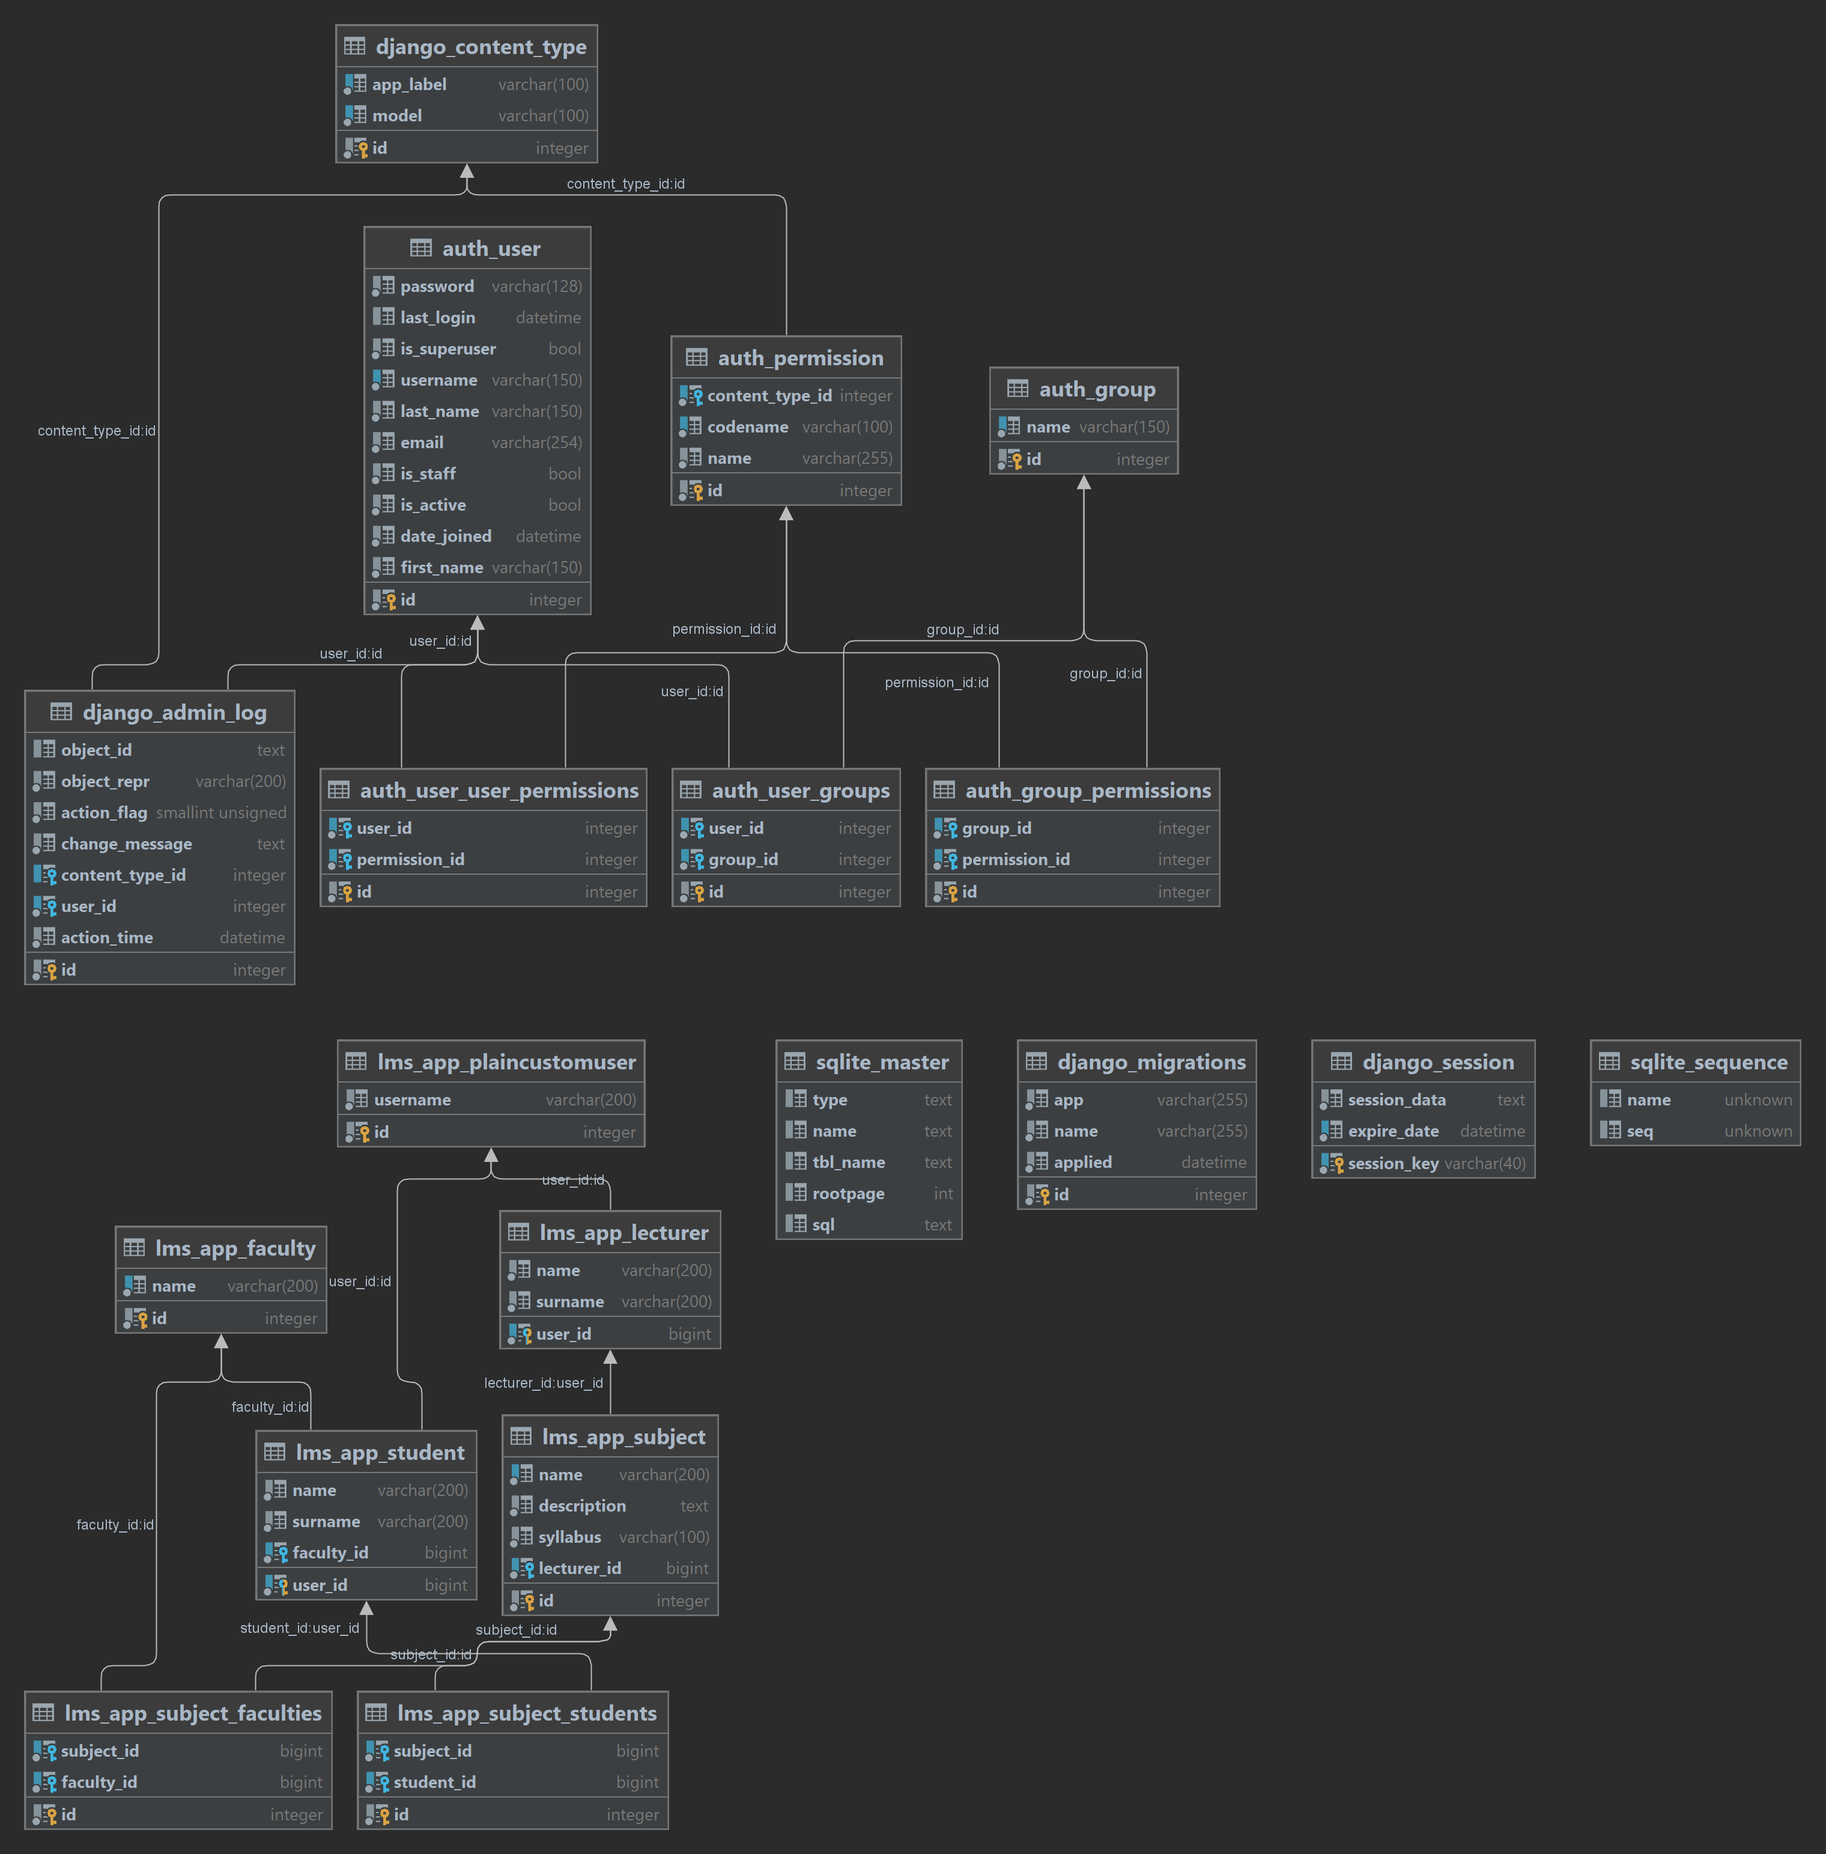
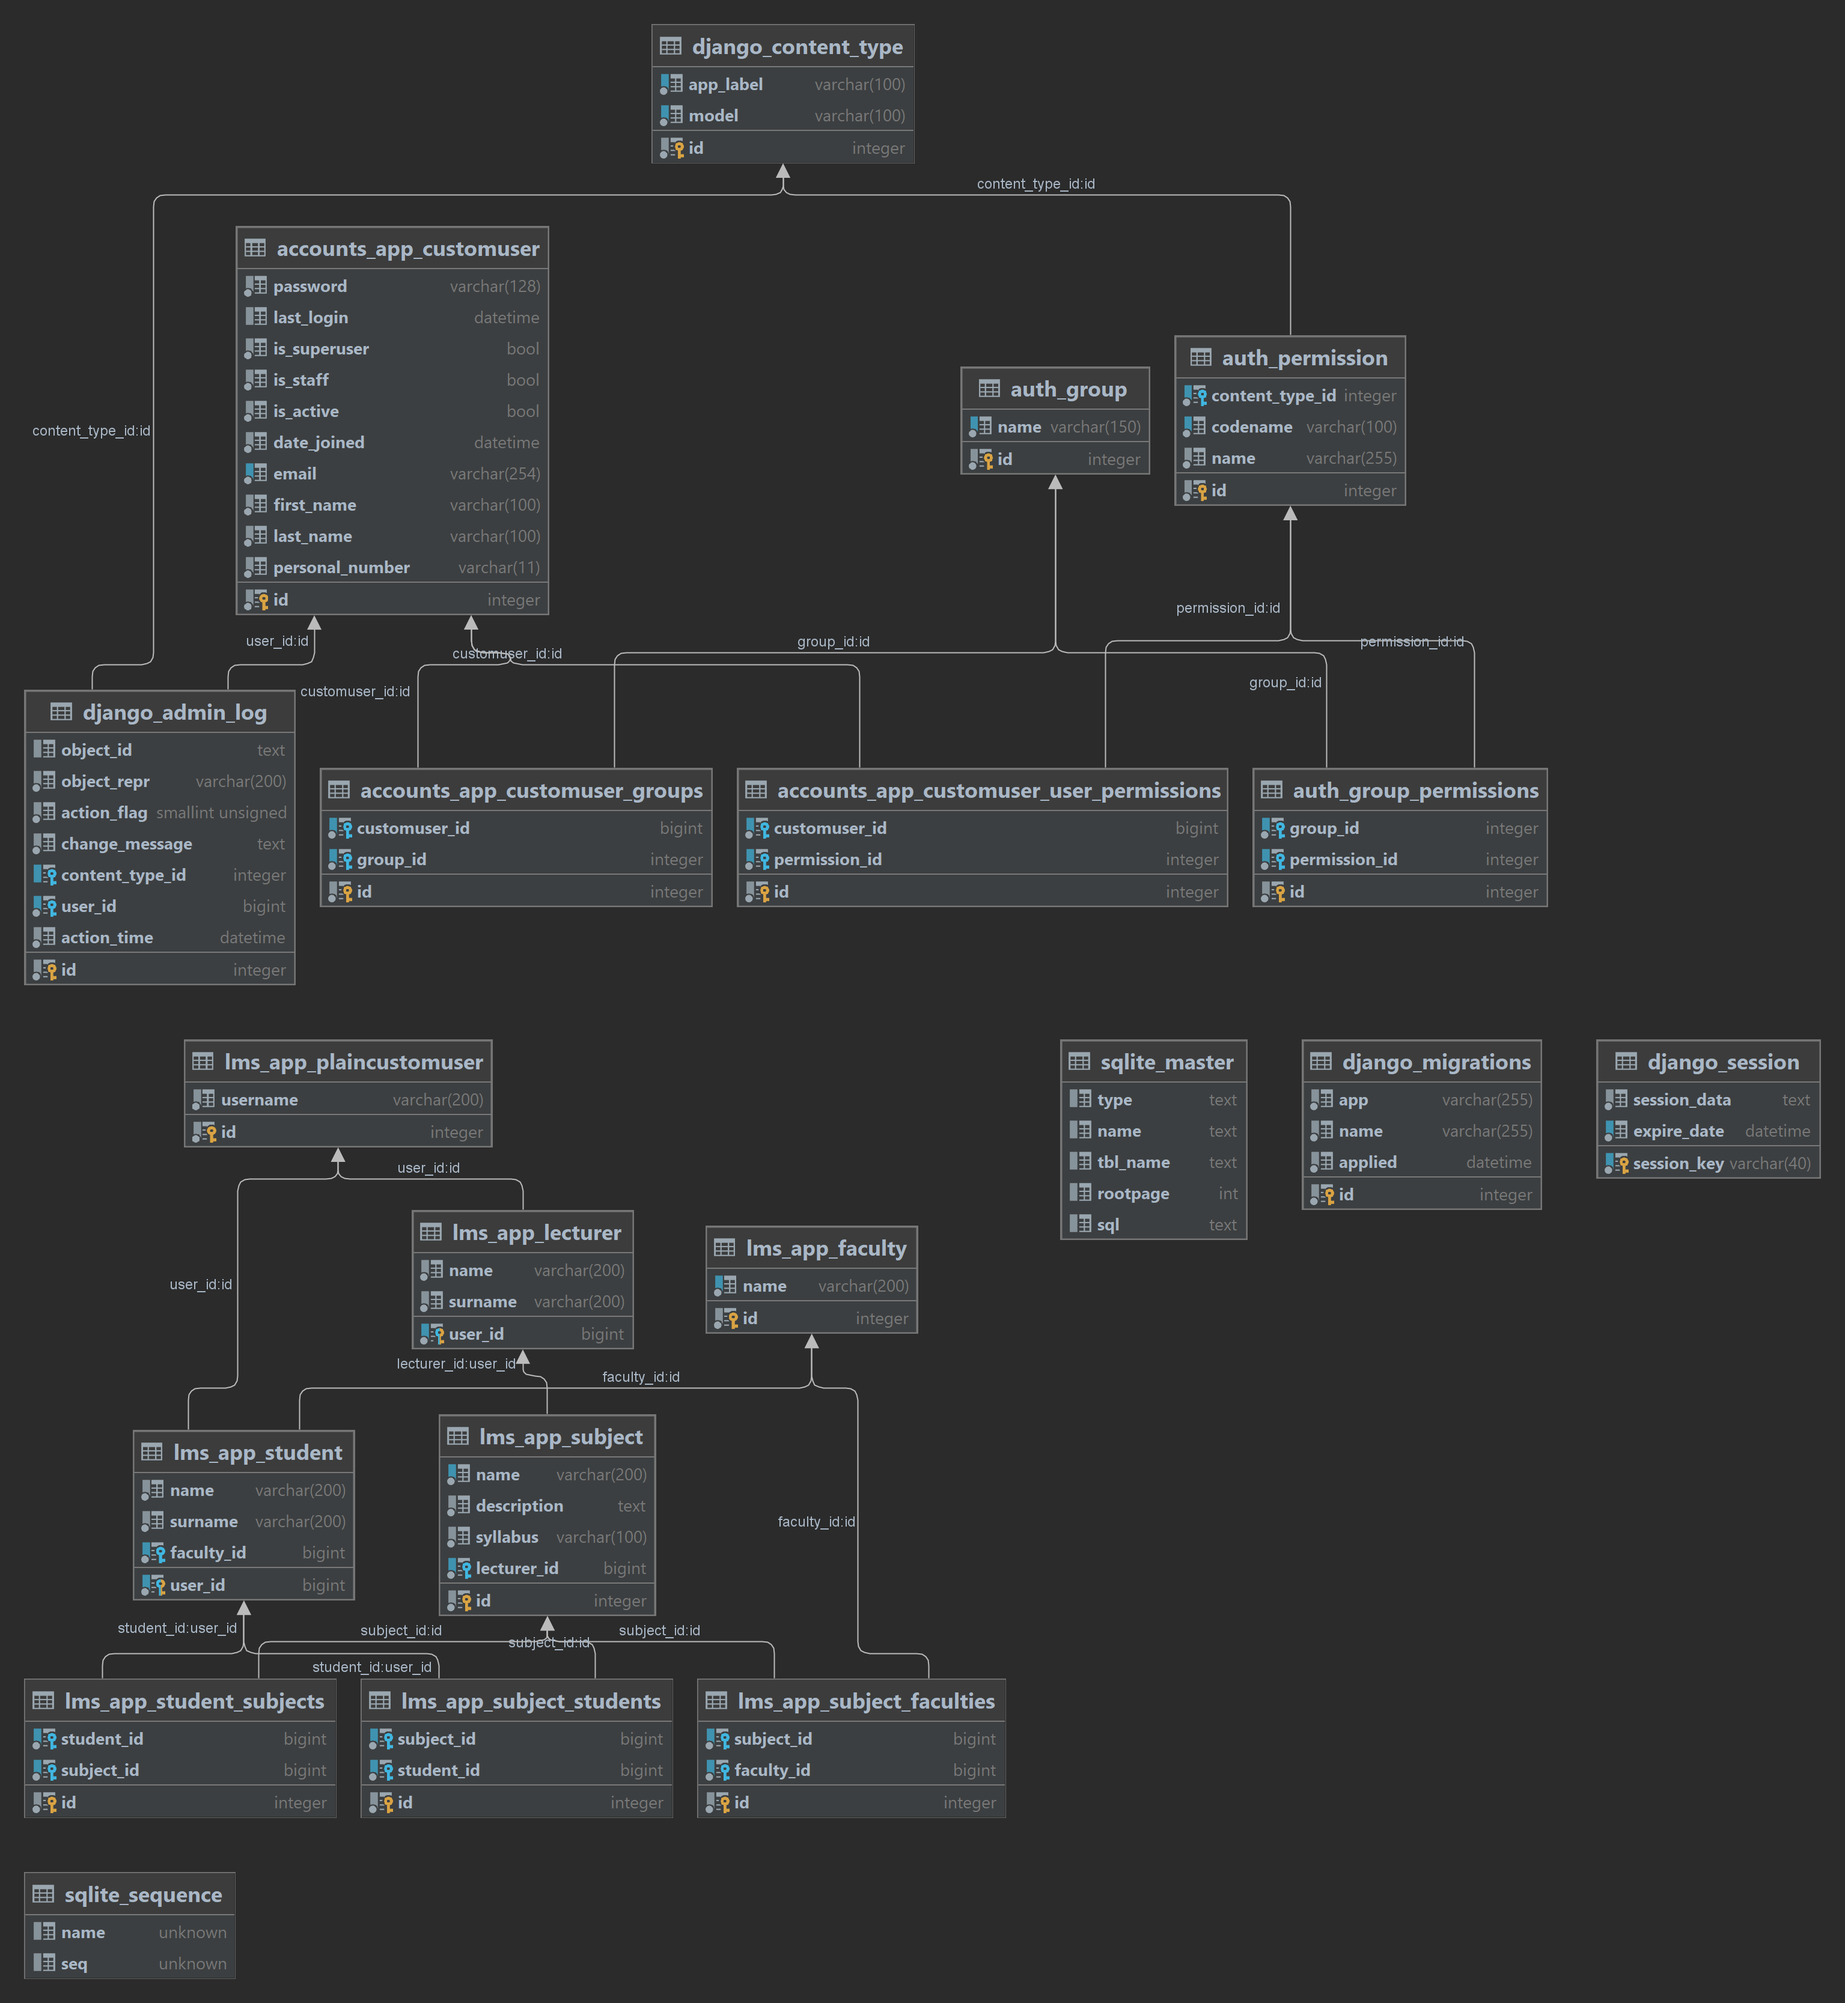
Updated database relationship (#3)
* Registered new app in main setting.py

* Generated models in models.py and registered them in admin.py

* Generated database_structure.png to share how the database is structured

* Added relation between student and subject

* Added updated database_structure.png

* Refactored application name from lms_app to universities_app

diff --git a/universities_app/models.py b/universities_app/models.py
@@ -1,31 +1,66 @@
-# from django.db import models
-# from django.utils.translation import gettext_lazy as _
+from django.db import models
+from django.utils.translation import gettext_lazy as _
 
-# # Create your models here.
-# class Faculty(models.Model):
-#     name = models.CharField(max_length=100, null=False, blank=False, verbose_name=_('Faculty Name'))
-#     description = models.TextField(null=True, blank=True, verbose_name=_('Description'))
-#     dean = models.CharField(max_length=100, null=True, blank=True, verbose_name=_('Dean Name'))
 
-#     def __str__(self):
-#         return self.name
-    
-#     class Meta:
-#         verbose_name = _('Faculty')
-#         verbose_name_plural = _('Faculties')
-#         ordering = ['name']
+class Faculty(models.Model):
+    name = models.CharField(max_length=200, verbose_name=_('Faculty name'), unique=True)
 
-# class Subject(models.Model):
-#     name = models.CharField(max_length=100, null=False, blank=False, verbose_name=_('Subject Name'))
-#     description = models.TextField(null=True, blank=True, verbose_name=_('Description'))
-#     syllabus = models.FileField(upload_to='syllabus/', null=True, blank=True, verbose_name=_('Syllabus'))
-#     faculties = models.ManyToManyField(Faculty, related_name='subjects', verbose_name=_('Faculties'))
-#     max_students = models.PositiveIntegerField(default=30, verbose_name=_('Max Students'))
+    class Meta:
+        verbose_name = _('Faculty')
+        verbose_name_plural = _('Faculties')
 
-#     def __str__(self):
-#         return self.name
-    
-#     class Meta:
-#         verbose_name = _('Subject')
-#         verbose_name_plural = _('Subjects')
-#         ordering = ['faculties', 'name']
+    def __str__(self):
+        return self.name
+
+
+class Subject(models.Model):
+    name = models.CharField(max_length=200, verbose_name=_('Subject name'), unique=True)
+    description = models.TextField(verbose_name=_('Description'))
+    syllabus = models.FileField(verbose_name=_('Syllabus'), upload_to='syllabus/')
+    faculties = models.ManyToManyField('Faculty', verbose_name=_('Faculties'), blank=True)
+    students = models.ManyToManyField('Student', verbose_name=_('Student'), blank=True)
+    lecturer = models.OneToOneField('Lecturer', on_delete=models.CASCADE, verbose_name=_('Lecturer'), blank=True)
+
+    class Meta:
+        verbose_name = _('Subject')
+        verbose_name_plural = _('Subjects')
+
+    def __str__(self):
+        return self.name
+
+
+class Lecturer(models.Model):
+    # TODO implement custom user class to assign to user field in lecturer
+    user = models.OneToOneField('PlainCustomUser', on_delete=models.CASCADE, primary_key=True, verbose_name=_('User'))
+    name = models.CharField(max_length=200, verbose_name=_('Lecturer name'))
+    surname = models.CharField(max_length=200, verbose_name=_('Lecturer surname'))
+
+    class Meta:
+        verbose_name = _('Lecturer')
+        verbose_name_plural = _('Lecturers')
+
+    def __str__(self):
+        return f'{self.name} {self.surname}'
+
+
+class Student(models.Model):
+    # TODO implement custom user class to assign to user field in lecturer
+    user = models.OneToOneField('PlainCustomUser', on_delete=models.CASCADE, primary_key=True, verbose_name=_('User'))
+    name = models.CharField(max_length=200, verbose_name=_('Student name'))
+    surname = models.CharField(max_length=200, verbose_name=_('Student surname'))
+    subjects = models.ManyToManyField('Subject', verbose_name=_('Subject'), blank=True)
+    faculty = models.ForeignKey('Faculty', on_delete=models.CASCADE, verbose_name=_('Faculty'), blank=True)
+
+    class Meta:
+        verbose_name = _('Student')
+        verbose_name_plural = _('Students')
+
+    def __str__(self):
+        return f'{self.name} {self.surname}'
+
+
+class PlainCustomUser(models.Model):
+    username = models.CharField(max_length=200, verbose_name='Username')
+
+    def __str__(self):
+        return f'{self.username}'

diff --git a/universities_app/admin.py b/universities_app/admin.py
@@ -1,17 +1,25 @@
 from django.contrib import admin
-from lms_app.models import Faculty, Student, Subject, Lecturer, PlainCustomUser
+from universities_app.models import Faculty, Student, Subject, Lecturer, PlainCustomUser
+
 
 class FacultyAdmin(admin.ModelAdmin):
     list_display = ("name",)
 
+
 class LecturerAdmin(admin.ModelAdmin):
-    list_display = ("user","name","surname")
+    list_display = ("user", "name", "surname")
+
 
 class StudentAdmin(admin.ModelAdmin):
-    list_display = ("user","name","surname", "faculty")
+    def display_subjects(self, obj):
+        return ", ".join([subject.name for subject in obj.subjects.all()])
+
+    list_display = ("user", "name", "surname", "display_subjects", "faculty")
+
 
 class UserAdmin(admin.ModelAdmin):
     list_display = ("username",)
+
 
 class SubjectAdmin(admin.ModelAdmin):
     list_display = ("name", "description", "syllabus", "display_faculties", "display_students", "lecturer")
@@ -21,6 +29,7 @@ class SubjectAdmin(admin.ModelAdmin):
 
     def display_students(self, obj):
         return ", ".join([student.name for student in obj.students.all()])
+
 
 admin.site.register(Faculty, FacultyAdmin)
 admin.site.register(Lecturer, LecturerAdmin)

diff --git a/LMS/settings.py b/LMS/settings.py
@@ -39,7 +39,6 @@ INSTALLED_APPS = [
     'django.contrib.staticfiles',
     'universities_app',
     'accounts_app',
-    'lms_app'
 ]
 
 MIDDLEWARE = [
